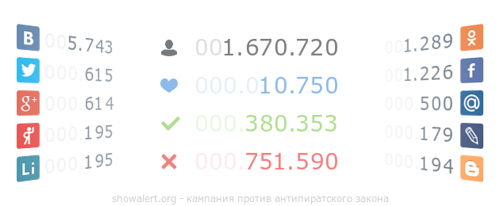
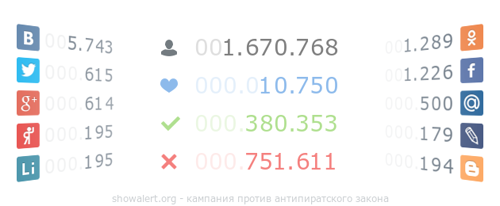
update statistics files for plugins

Changed region(s): [[0.57, 0.7282, 0.69, 0.8447], [0.6, 0.1748, 0.69, 0.2621]]

diff --git a/votes.js b/votes.js
@@ -1,1 +1,1 @@
-window.lk.votes(31382)
+window.lk.votes(31394)
